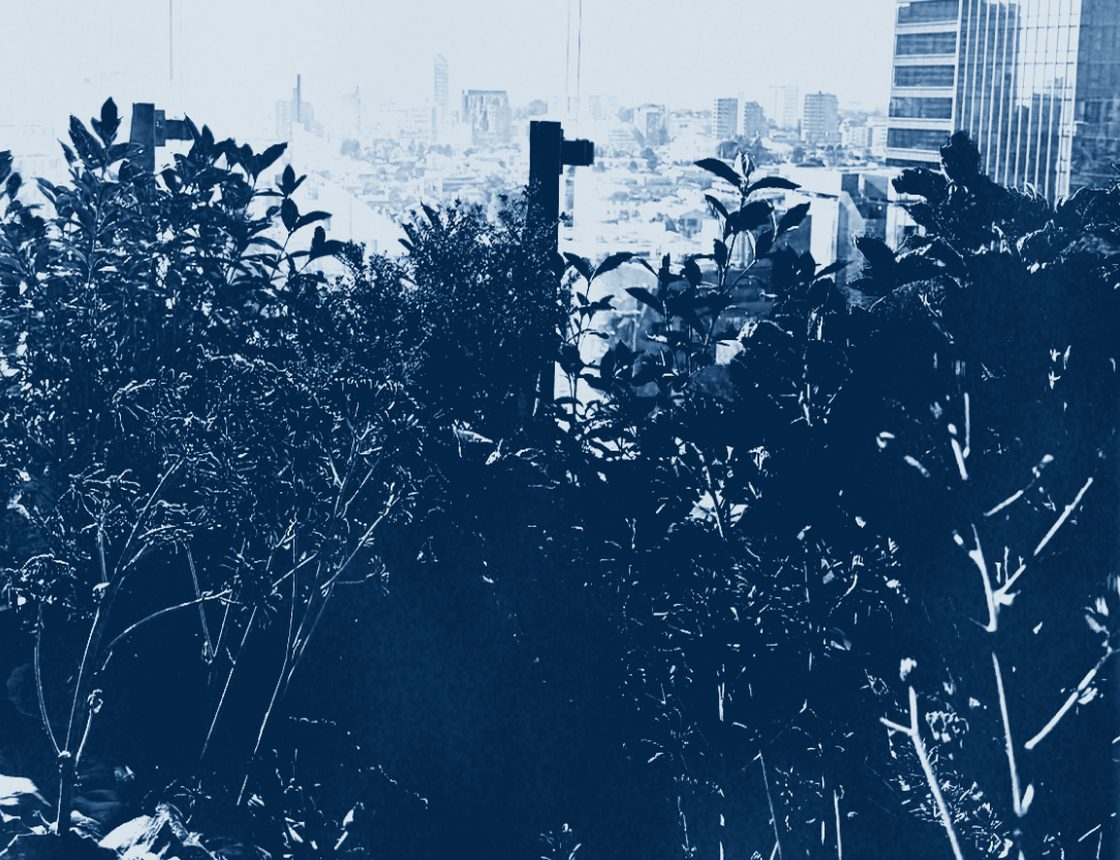
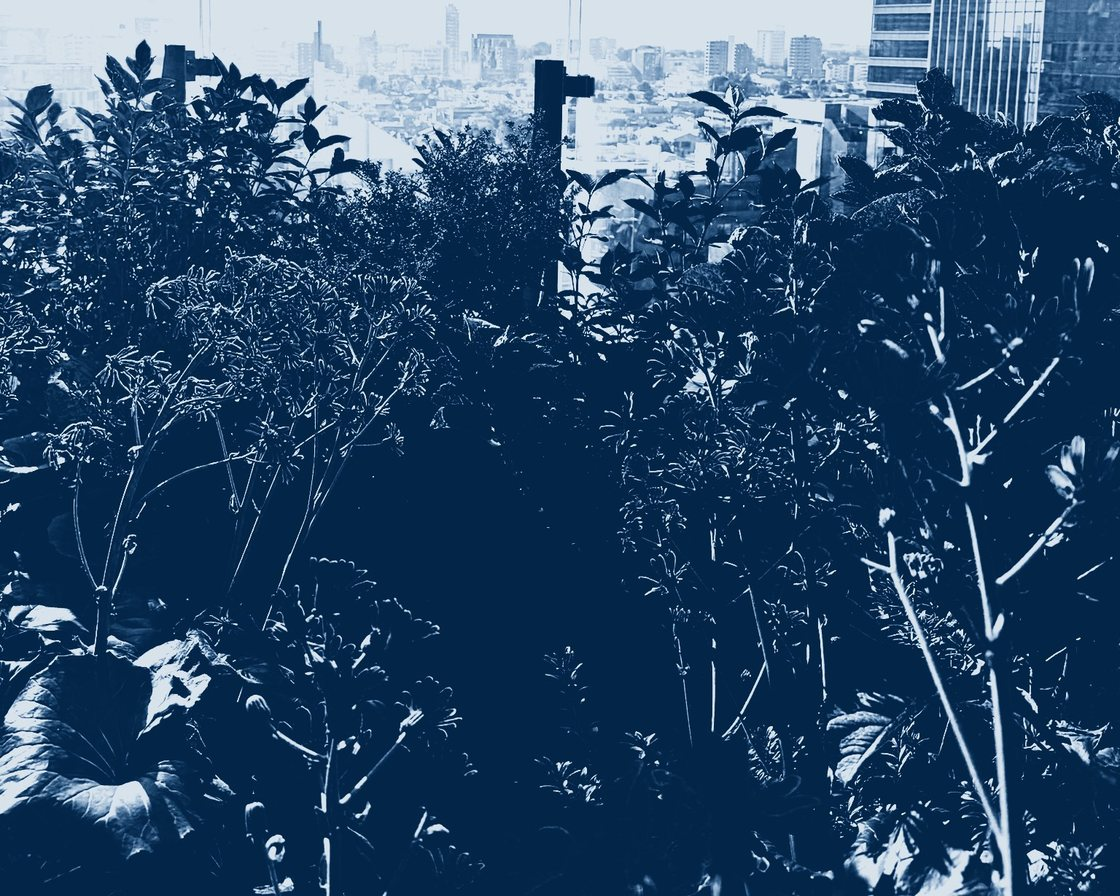
CYANO: stop the images being stretched
Every image on the page was distorted, the slider by 41% and the
screenshot strip by more than twice that.

The cause was mine: I put width and height attributes on the images so
the browser reserves the right space before they load, but the stylesheet
set only width. The height attribute keeps applying as a literal pixel
height, so a 1120x896 photograph was being drawn into a 656x896 box.
Adding height:auto fixes all of them at once.

The pair itself was also built wrong. It was cropped out of a simulator
screenshot, and the print's paper margin is not a fixed fraction of the
frame, so trimming it by percentage changed the aspect ratio and then
resizing to a fixed box squashed the picture another 12%.

Both images are now rendered from the shipped model rather than cropped
from a screenshot: tools/render_print.py in the CYANO repo reads the same
CyanotypeModel.bin the app looks things up in, so the result is what the
phone would have shown, at the photograph's own size. Identical crops of
identical dimensions, and an output size with exactly the crop's aspect.

Re-measured on the files actually being shipped, so the numbers in the
copy still match what a reader can see: flowers 177 to 69, sky 165 to 225.

The overlay also gets object-fit now, so a future pair that is not the
same size crops rather than silently distorting.

diff --git a/cyano/index.html b/cyano/index.html
@@ -144,7 +144,7 @@ body {
   font: 400 17px/1.65 -apple-system, BlinkMacSystemFont, "Segoe UI", Inter, system-ui, sans-serif;
   overflow-x: hidden;
 }
-img { max-width: 100%; display: block; }
+img { max-width: 100%; height: auto; display: block; }
 main { max-width: 46rem; margin: 0 auto; padding: 0 clamp(1.3rem, 5vw, 2.5rem) 4rem; }
 
 .label {
@@ -183,7 +183,8 @@ figure { margin: 3rem 0 0; }
 figcaption { margin-top: 0.85rem; }
 .compare { position: relative; overflow: hidden; border-radius: 6px; touch-action: none; cursor: ew-resize; }
 .compare img { width: 100%; }
-.compare .top { position: absolute; inset: 0; clip-path: inset(0 0 0 var(--split)); }
+.compare .top { position: absolute; inset: 0; width: 100%; height: 100%;
+  object-fit: cover; clip-path: inset(0 0 0 var(--split)); }
 .compare .seam { position: absolute; top: 0; bottom: 0; left: var(--split); width: 2px; background: var(--paper); opacity: 0.85; }
 .compare .tag { position: absolute; bottom: 0.7rem; color: var(--paper); text-shadow: 0 1px 6px rgba(0,0,0,0.7); }
 .compare .l { left: 0.8rem; }
@@ -241,8 +242,8 @@ footer p { margin: 1rem 0 0; }
 
   <figure>
     <div class="compare" style="--split:50%">
-      <img src="/cyano/assets/before.jpg" width="1120" height="860" alt="Yellow flowers in front of a city skyline under a clear blue sky, as the phone photographed it.">
-      <img class="top" src="/cyano/assets/after.jpg" width="1120" height="860" alt="The same frame as a cyanotype: the yellow flowers have gone almost black while the sky has burned out to bare paper.">
+      <img src="/cyano/assets/before.jpg" width="1120" height="896" alt="Yellow flowers in front of a city skyline under a clear blue sky, as the phone photographed it.">
+      <img class="top" src="/cyano/assets/after.jpg" width="1120" height="896" alt="The same frame as a cyanotype: the yellow flowers have gone almost black while the sky has burned out to bare paper.">
       <span class="seam" aria-hidden="true"></span>
       <span class="tag label l">Photograph</span>
       <span class="tag label r">Cyanotype</span>
@@ -260,11 +261,11 @@ footer p { margin: 1rem 0 0; }
     </p>
     <p>
       Look at the picture above. To the camera, those yellow flowers and that sky are the same
-      brightness: measure them and the flowers come out at 177, the sky at 167. You could not tell
+      brightness: measure them and the flowers come out at 177, the sky at 165. You could not tell
       them apart in a black and white conversion.
     </p>
     <p>
-      On the paper they end up at opposite ends. The flowers fall to 57 and the sky rises to 222,
+      On the paper they end up at opposite ends. The flowers fall to 69 and the sky rises to 225,
       because yellow carries almost no light this sensitiser can use while the sky is carrying more
       than the sheet can hold. Nothing was adjusted to make that happen; it is what the chemistry
       does.
